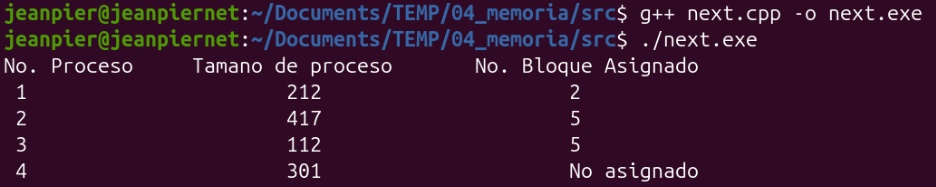
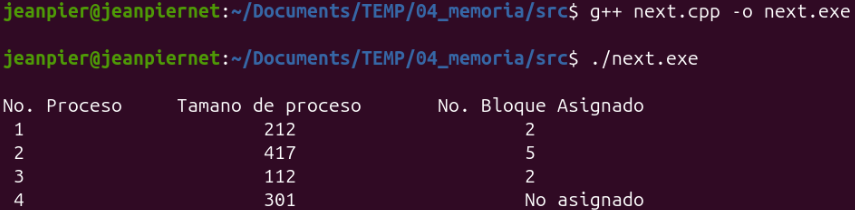
fix: corregir capturas y codigo relacionado

diff --git a/src/next.cpp b/src/next.cpp
@@ -6,18 +6,21 @@ void nextFit(int blockSize[], int m, int processSize[], int n) {
     for (int i = 0; i < n; i++)
         allocation[i] = -1;
 
-    int j = 0;
+    int j = 0; // Puntero que recuerda la última posición
+
     for (int i = 0; i < n; i++) {
-        while (j < m) {
-            if (blockSize[j] >= processSize[i]) {
-                allocation[i] = j;
-                blockSize[j] -= processSize[i];
+        int count = 0;
+        while (count < m) {
+            int idx = j % m; 
+            if (blockSize[idx] >= processSize[i]) {
+                allocation[i] = idx;
+                blockSize[idx] -= processSize[i];
+                j = idx + 1; // Avanza al siguiente bloque para el próximo proceso
                 break;
             }
             j++;
+            count++;
         }
-        if (j == m)
-            j = 0;
     }
 
     cout << "No. Proceso\tTamano de proceso\tNo. Bloque Asignado" << endl;
